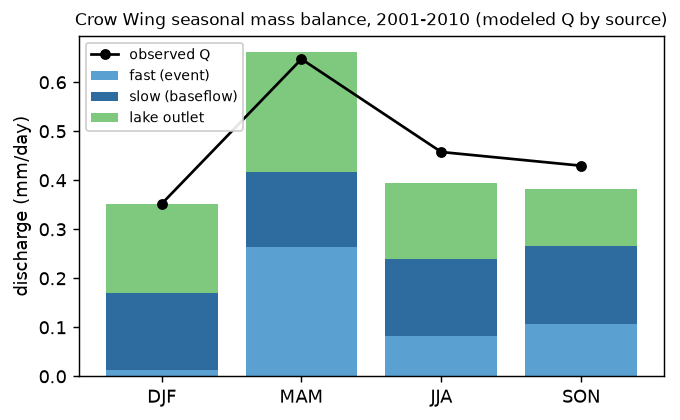
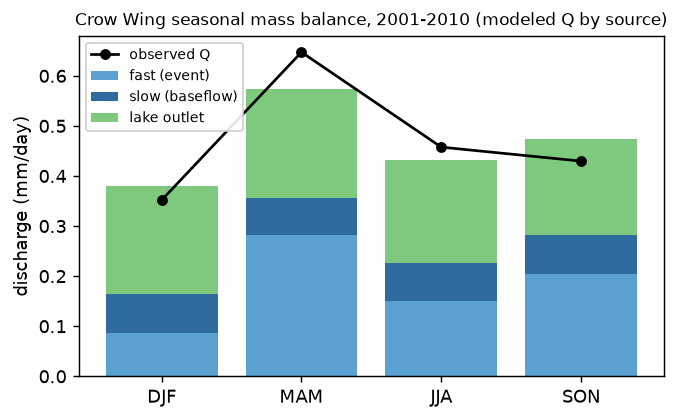
Crow Wing example: refit the seasonal figure and report the run we did (#37)
Refit plot_crow_wing_seasonal.py with a converged 8-decade SCE-UA fit
(KGE_logKGE ~0.74, forest-physical PDD ~2.5, leafout ~177) and regenerate the
figure -- the previous one used an under-converged fit (PDD ~0.84). Align the
example doc + README to that run instead of an unreproduced ~0.77: report the
actual params and seasonal mod/obs, correct the overclaim that calibrating
leafout_GDD tightens the freshet (it barely moves the score -- the phenology Kc
recovers the freshet; the threshold sits on a flat ridge), and point the
winter/fall note at the new KGE_logKGE_seasonal metric.

diff --git a/docs/figures/plot_crow_wing_seasonal.py b/docs/figures/plot_crow_wing_seasonal.py
@@ -5,8 +5,9 @@ Runs the Crow Wing example (``examples/crow_wing/``) at an SCE-UA-calibrated
 parameter set over a representative decade (2001-2010) with ``store_fluxes`` and
 plots the per-season discharge split by source (fast/event, slow/baseflow, lake
 outlet) against observed Q — the real-basin version of the seasonal mass-balance
-diagnostic. The parameters below are a calibration result (KGE_logKGE ~0.68 over
-the decade); re-run the example's ``calibrate.py`` to refit.
+diagnostic. The parameters below are an 8-decade multi-window SCE-UA best fit
+(composite KGE_logKGE ~0.74, with a forest-physical melt factor ~2.5); re-run the
+example's ``calibrate.py`` to refit.
 
 Usage (from the repository root)::
 
@@ -33,16 +34,16 @@ OUT = os.path.join(ROOT, "docs", "source", "_static", "crow_wing_seasonal.png")
 # SCE-UA best-fit (calibration coordinates; log__ names are log10). Regenerate
 # with `python calibrate.py sceua` in examples/crow_wing/.
 THETA = {
-    "PDD_melt_factor": 0.8385,
-    "et_scale": 0.9313,
-    "log__recession_coeff_soil": 0.9527,
-    "log__recession_coeff_gw": 3.4310,
-    "f_exfil_soil": 0.3074,
-    "log__recession_coeff_lake": 3.9846,
-    "log__H_sill_lake": 3.0082,
-    "f_route_lake": 0.9006,
-    "log__fdd_threshold": 1.8869,
-    "leafout_GDD": 225.04,
+    "PDD_melt_factor": 2.5129,
+    "et_scale": 0.7489,
+    "log__recession_coeff_soil": 1.5301,
+    "log__recession_coeff_gw": 3.2451,
+    "f_exfil_soil": 0.6422,
+    "log__recession_coeff_lake": 4.6543,
+    "log__H_sill_lake": 1.6879,
+    "f_route_lake": 0.7821,
+    "log__fdd_threshold": 1.6785,
+    "leafout_GDD": 177.2311,
 }
 START, END = "2001-01-01", "2010-12-31"
 

diff --git a/examples/crow_wing/README.md b/examples/crow_wing/README.md
@@ -63,28 +63,29 @@ environment (`pip install mnished[jit] spotpy`; the Numba JIT needs
 
 ## Expected result
 
-SCE-UA reaches a composite **`KGE_logKGE` ≈ 0.77** over the eight decades, with
-`leafout_GDD` settling near a physically-correct late-May green-up and the melt
-factor at a forest-physical value:
+SCE-UA reaches a composite **`KGE_logKGE` ≈ 0.74** over the eight decades, with
+`leafout_GDD` settling at a mid-to-late-May green-up and the melt factor at a
+forest-physical value:
 
 | parameter | value | note |
 |-----------|------:|------|
-| `leafout_GDD` | ~205 GDD | green-up ~May 25 (physical for ~46–47°N) |
-| `PDD_melt_factor` | ~2.2 | mm SWE/°C/day — forest-physical |
-| `et_scale` | ~0.83 | free (no water-balance rescaling) |
+| `leafout_GDD` | ~177 GDD | green-up ~mid-to-late May (physical for ~46–47°N) |
+| `PDD_melt_factor` | ~2.5 | mm SWE/°C/day — forest-physical |
+| `et_scale` | ~0.75 | free (no water-balance rescaling) |
 
 Seasonal mod/obs for a representative decade (2001–2010):
 
 | season | mod/obs |
 |--------|--------:|
-| DJF | ~1.16 |
-| MAM | ~0.91 |
-| JJA | ~0.93 |
-| SON | ~1.01 |
+| DJF | ~1.08 |
+| MAM | ~0.89 |
+| JJA | ~0.95 |
+| SON | ~1.10 |
 
-Calibrating `leafout_GDD` (vs. fixing it at the generic default) tightens the
-spring freshet — top-20 observed-peak mod/obs goes from ~0.67 to ~1.04 — and
-pulls the fall recession into line (SON 1.2 → 1.0).
+It is the phenology `Kc` (suppressing early-spring ET until leaf-out) that
+recovers the freshet; the `leafout_GDD` threshold itself is only weakly
+constrained — calibrating it barely moves the composite score — so what the
+calibration recovers is the *physical placement* of green-up, not a score gain.
 
 ## Honest open items
 
@@ -92,9 +93,10 @@ This example reproduces the *process behaviour* well; it is a research setup, no
 a polished operational calibration. Two residuals remain visible:
 
 - **A winter↔fall trade-off.** `KGE_logKGE` is fairly flat across the seasonal
-  shape, so runs can swap a slightly high winter (DJF ~1.16) for a slightly high
-  fall and back at nearly the same score. A seasonally-weighted objective would
-  resolve which to prefer.
+  shape, so runs can swap a slightly high winter (DJF ~1.08) for a slightly high
+  fall and back at nearly the same score. Calibrating with the
+  `KGE_logKGE_seasonal` metric — which weights the four meteorological seasons
+  equally rather than by volume — presses on this directly.
 - **Groundwater recession.** The deep store's recession is gentle; part of the
   residual fall flow is a baseflow-shape issue, partly separate from ET phasing.
 

diff --git a/docs/source/example_crow_wing.rst b/docs/source/example_crow_wing.rst
@@ -106,8 +106,8 @@ reusable tool behind this example's narrative.
 Running it and what to expect
 -----------------------------
 
-SCE-UA reaches a composite ``KGE_logKGE`` ≈ **0.77** over the eight decades, with
-``leafout_GDD`` at a physically-correct late-May green-up and the melt factor at a
+SCE-UA reaches a composite ``KGE_logKGE`` ≈ **0.74** over the eight decades, with
+``leafout_GDD`` at a mid-to-late-May green-up and the melt factor at a
 forest-physical value:
 
 .. list-table::
@@ -118,27 +118,33 @@ forest-physical value:
      - value
      - note
    * - ``leafout_GDD``
-     - ~205 GDD
-     - green-up ~late May (physical for ~46–47°N)
+     - ~177 GDD
+     - green-up ~mid-to-late May (physical for ~46–47°N)
    * - ``PDD_melt_factor``
-     - ~2.2
+     - ~2.5
      - mm SWE °C⁻¹ day⁻¹ — forest-physical
    * - ``et_scale``
-     - ~0.83
+     - ~0.75
      - free (no water-balance rescaling)
 
-Calibrating ``leafout_GDD`` (vs. fixing it at the generic default) tightens the
-spring freshet — top-20 observed-peak mod/obs goes from ~0.67 to ~1.04 — and pulls
-the fall recession into line (SON ~1.2 → ~1.0).
+Over the 2001–2010 decade (the figure above) the seasonal balance is within
+roughly ±10 %: modeled/observed discharge is 1.08 (DJF), 0.89 (MAM), 0.95 (JJA),
+and 1.10 (SON) — spring slightly under (the freshet) and winter/fall slightly
+over. It is the phenology :math:`K_c` — suppressing early-spring ET until
+leaf-out — that recovers the freshet; the ``leafout_GDD`` threshold itself is only
+weakly constrained (calibrating it barely moves the composite score), so what the
+calibration recovers is the *physical placement* of green-up, not a score gain.
 
 .. note::
 
    **This is a research example, not a polished operational calibration.** Two
    residuals remain visible: a winter↔fall trade-off (``KGE_logKGE`` is fairly
    flat across the seasonal shape, so runs can swap a slightly high winter for a
-   slightly high fall at nearly the same score — a seasonally-weighted objective
-   would resolve it), and a gentle groundwater recession whose shape contributes
-   part of the residual fall flow. They are documented rather than hidden.
+   slightly high fall at nearly the same score — calibrating with
+   ``metric: KGE_logKGE_seasonal``, which weights the four meteorological seasons
+   equally rather than by volume, presses on this directly), and a gentle
+   groundwater recession whose shape contributes part of the residual fall flow.
+   They are documented rather than hidden.
 
 See ``examples/crow_wing/README.md`` for the full parameter set, the eight decade
 windows (the 1981–1990 decade is omitted — its observed discharge is ~8% present),